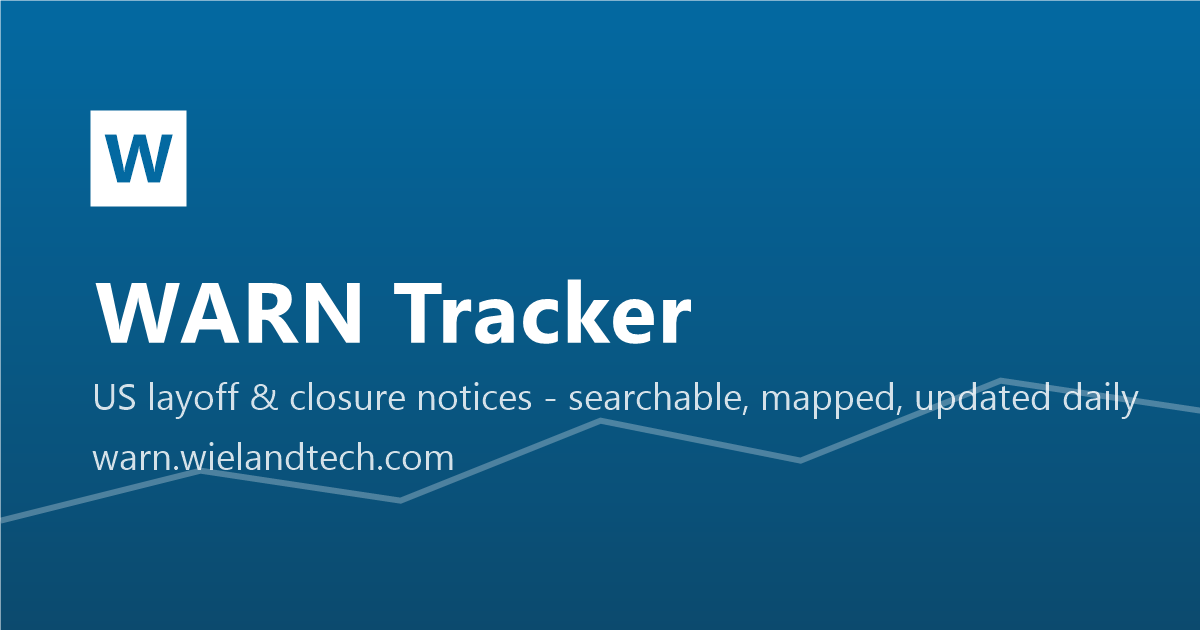
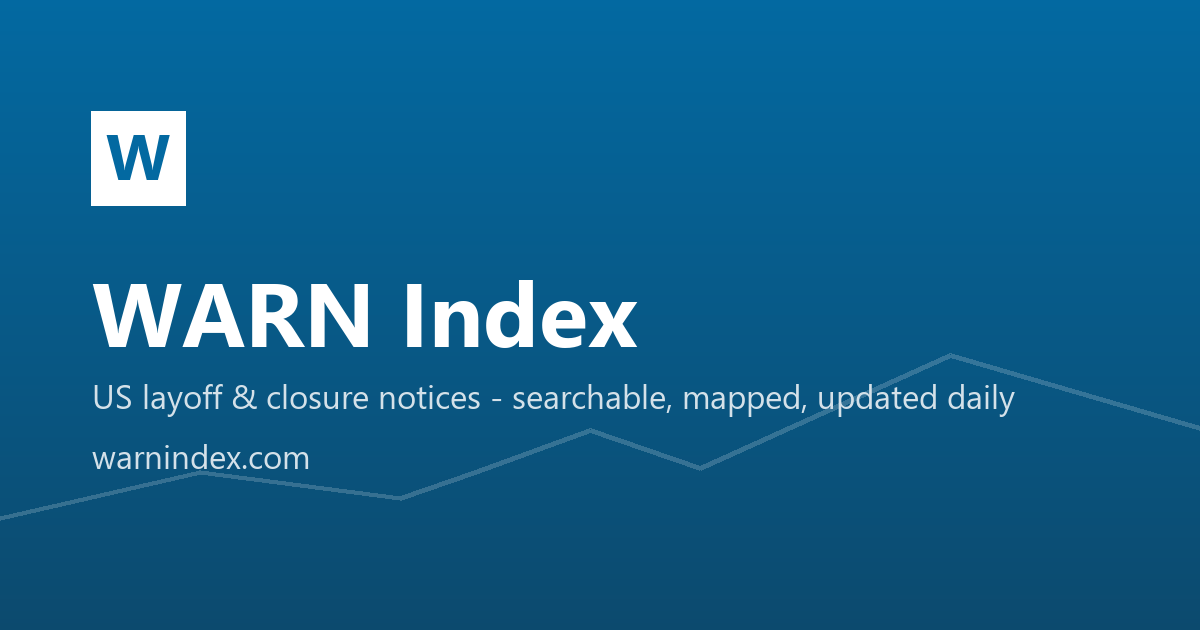
fix(seo): regenerate the social card for WARN Index
og-image.png is what every link unfurl shows — Slack, iMessage, Twitter,
LinkedIn. It still read "WARN Tracker" and "warn.wielandtech.com", so
after the rename and the domain move every share advertised the old brand
pointing at a host that now only 301s.

A string replace could not reach it: it is a binary asset, and it had no
source in the repo, which is exactly why nothing flagged it going stale.
So this also adds the ~90-line generator that produced it. Colours,
gradient stops, badge geometry and text cap-heights were sampled from the
original PNG, so the card is unchanged apart from the words.

The script is run by hand and is not wired into CI. It needs Pillow, which
is deliberately NOT added as a project dependency for a one-off asset
build; the docstring says how to install it. Fonts default to Segoe UI
rather than the original's Open Sans, which is not on this machine — the
letterforms differ very slightly, and FONT_BOLD/FONT_REGULAR can point at
any humanist sans.

diff --git a/warn_v2/scripts/make_og_image.py b/warn_v2/scripts/make_og_image.py
@@ -1,0 +1,97 @@
+"""Regenerate ``frontend/public/og-image.png``, the 1200x630 social card.
+
+Run by hand when the brand, tagline, or domain changes — it is not wired into
+CI or the build. It exists because the card is a binary asset with no source:
+when the site was renamed to WARN Index the PNG kept advertising "WARN Tracker"
+and the old domain in every unfurl, and nothing flagged it.
+
+Needs Pillow, which is NOT a project dependency (it is only used here):
+
+    uv pip install pillow --python .venv/Scripts/python.exe
+    python -m warn_v2.scripts.make_og_image
+
+Colours and geometry were sampled from the original card so regenerating it
+changes only the words. FONT_BOLD/FONT_REGULAR default to Segoe UI on Windows;
+point them at any humanist sans elsewhere.
+"""
+from __future__ import annotations
+
+from pathlib import Path
+
+from PIL import Image, ImageDraw, ImageFont
+
+OUT = Path(__file__).resolve().parents[2] / "frontend" / "public" / "og-image.png"
+
+WIDTH, HEIGHT = 1200, 630
+GRADIENT_TOP = (3, 105, 161)
+GRADIENT_BOTTOM = (12, 74, 110)
+BRAND_BLUE = (3, 105, 161)   # the W inside the badge
+MUTED = (212, 225, 233)      # subtitle and domain
+TREND = (255, 255, 255, 46)  # decorative layoff-trend polyline
+
+FONT_BOLD = r"C:\Windows\Fonts\segoeuib.ttf"
+FONT_REGULAR = r"C:\Windows\Fonts\segoeui.ttf"
+
+HEADLINE = "WARN Index"
+SUBTITLE = "US layoff & closure notices - searchable, mapped, updated daily"
+DOMAIN = "warnindex.com"
+
+# Cap-height tops, sampled from the original card.
+HEADLINE_TOP, SUBTITLE_TOP, DOMAIN_TOP = 280, 384, 444
+TEXT_LEFT = 92
+BADGE = (91, 111, 185, 205)
+
+
+def _gradient() -> Image.Image:
+    im = Image.new("RGB", (WIDTH, HEIGHT))
+    draw = ImageDraw.Draw(im)
+    for y in range(HEIGHT):
+        t = y / (HEIGHT - 1)
+        draw.line(
+            [(0, y), (WIDTH, y)],
+            fill=tuple(
+                round(a + (b - a) * t) for a, b in zip(GRADIENT_TOP, GRADIENT_BOTTOM, strict=True)
+            ),
+        )
+    return im
+
+
+def _with_trend(im: Image.Image) -> Image.Image:
+    overlay = Image.new("RGBA", (WIDTH, HEIGHT), (0, 0, 0, 0))
+    ImageDraw.Draw(overlay).line(
+        [(0, 518), (200, 472), (400, 498), (475, 472), (590, 430),
+         (700, 468), (950, 355), (1200, 428)],
+        fill=TREND, width=5, joint="curve",
+    )
+    return Image.alpha_composite(im.convert("RGBA"), overlay).convert("RGB")
+
+
+def build() -> Image.Image:
+    im = _with_trend(_gradient())
+    draw = ImageDraw.Draw(im)
+
+    draw.rectangle(BADGE, fill=(255, 255, 255))
+    badge_font = ImageFont.truetype(FONT_BOLD, 64)
+    box = draw.textbbox((0, 0), "W", font=badge_font)
+    cx = (BADGE[0] + BADGE[2]) / 2
+    cy = (BADGE[1] + BADGE[3]) / 2
+    draw.text(
+        (cx - (box[0] + box[2]) / 2, cy - (box[1] + box[3]) / 2),
+        "W", font=badge_font, fill=BRAND_BLUE,
+    )
+
+    def capped(text: str, font_path: str, cap_top: int, size: int, fill) -> None:
+        """Draw `text` with its cap height at `cap_top`, as the original is set."""
+        font = ImageFont.truetype(font_path, size)
+        box = draw.textbbox((0, 0), text, font=font)
+        draw.text((TEXT_LEFT - box[0], cap_top - box[1]), text, font=font, fill=fill)
+
+    capped(HEADLINE, FONT_BOLD, HEADLINE_TOP, 90, (255, 255, 255))
+    capped(SUBTITLE, FONT_REGULAR, SUBTITLE_TOP, 33, MUTED)
+    capped(DOMAIN, FONT_REGULAR, DOMAIN_TOP, 33, MUTED)
+    return im
+
+
+if __name__ == "__main__":
+    build().save(OUT, "PNG", optimize=True)
+    print(f"wrote {OUT}")
